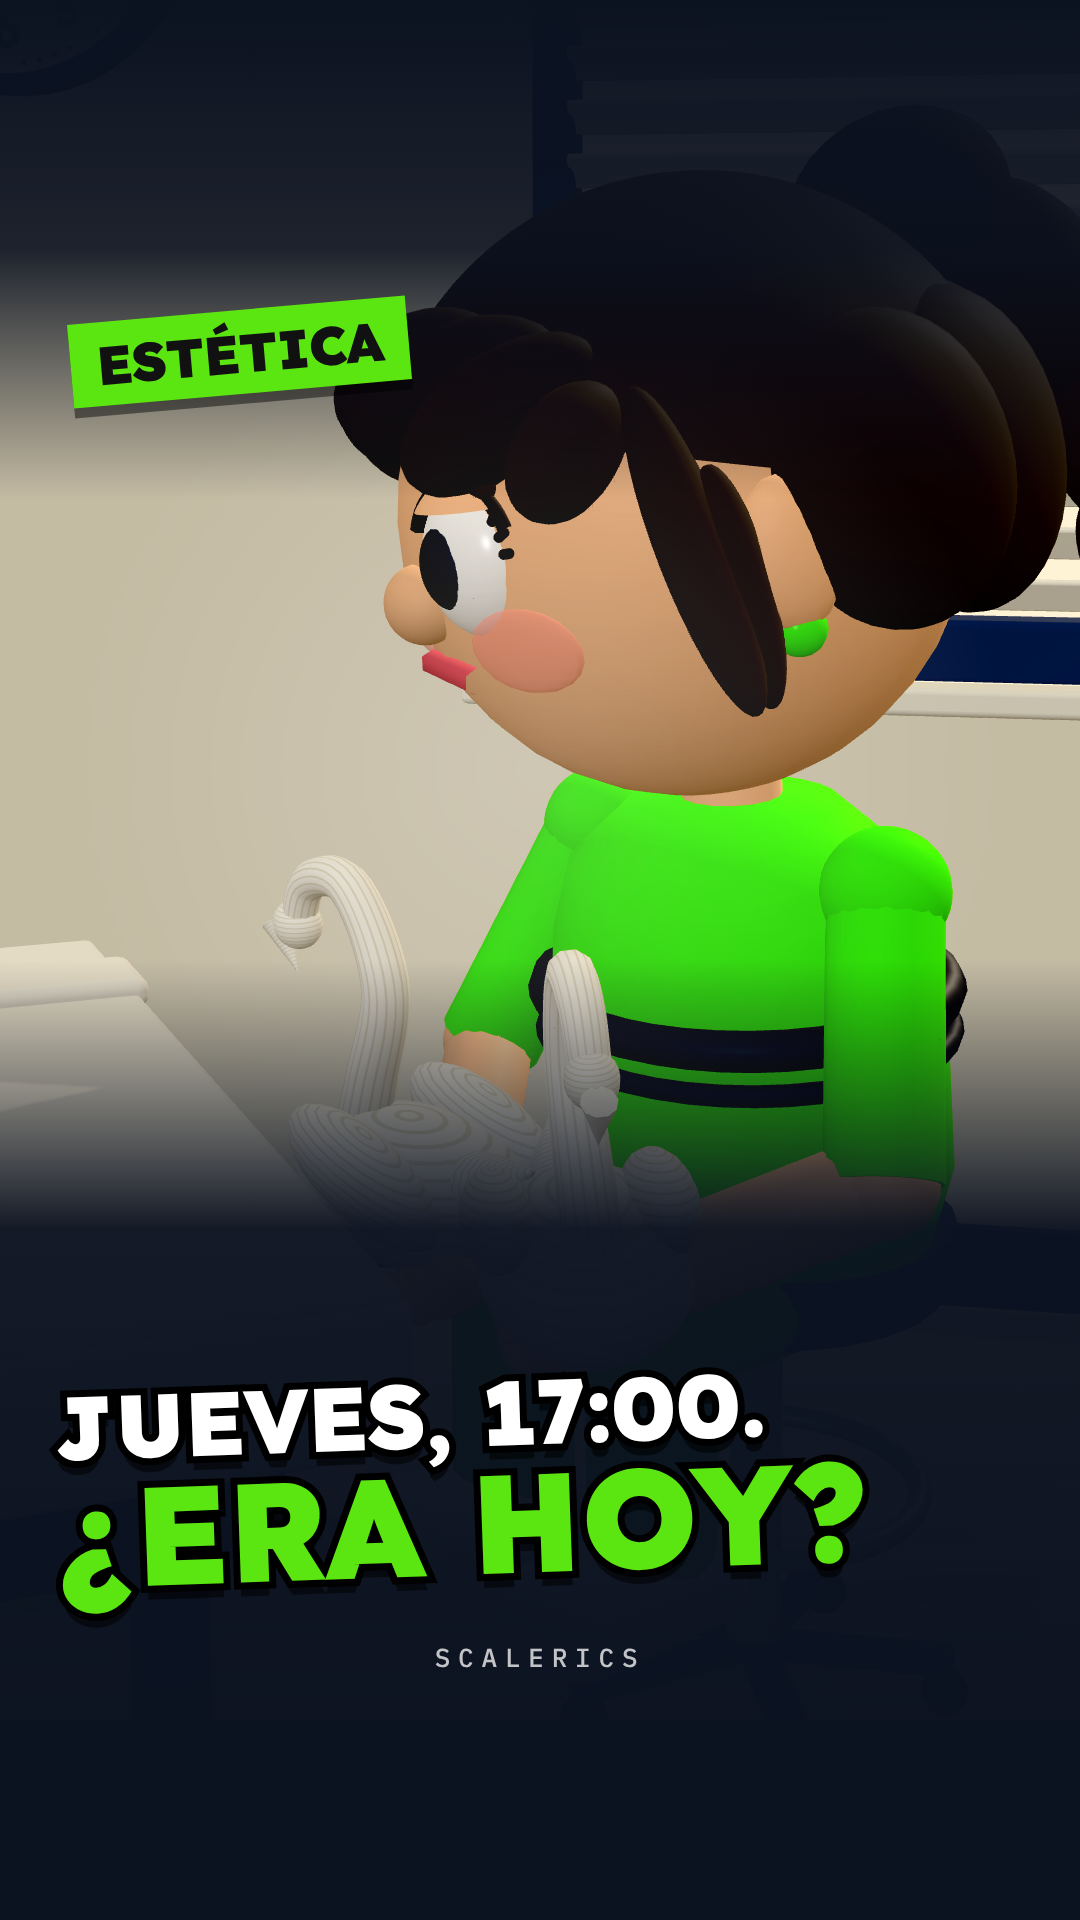
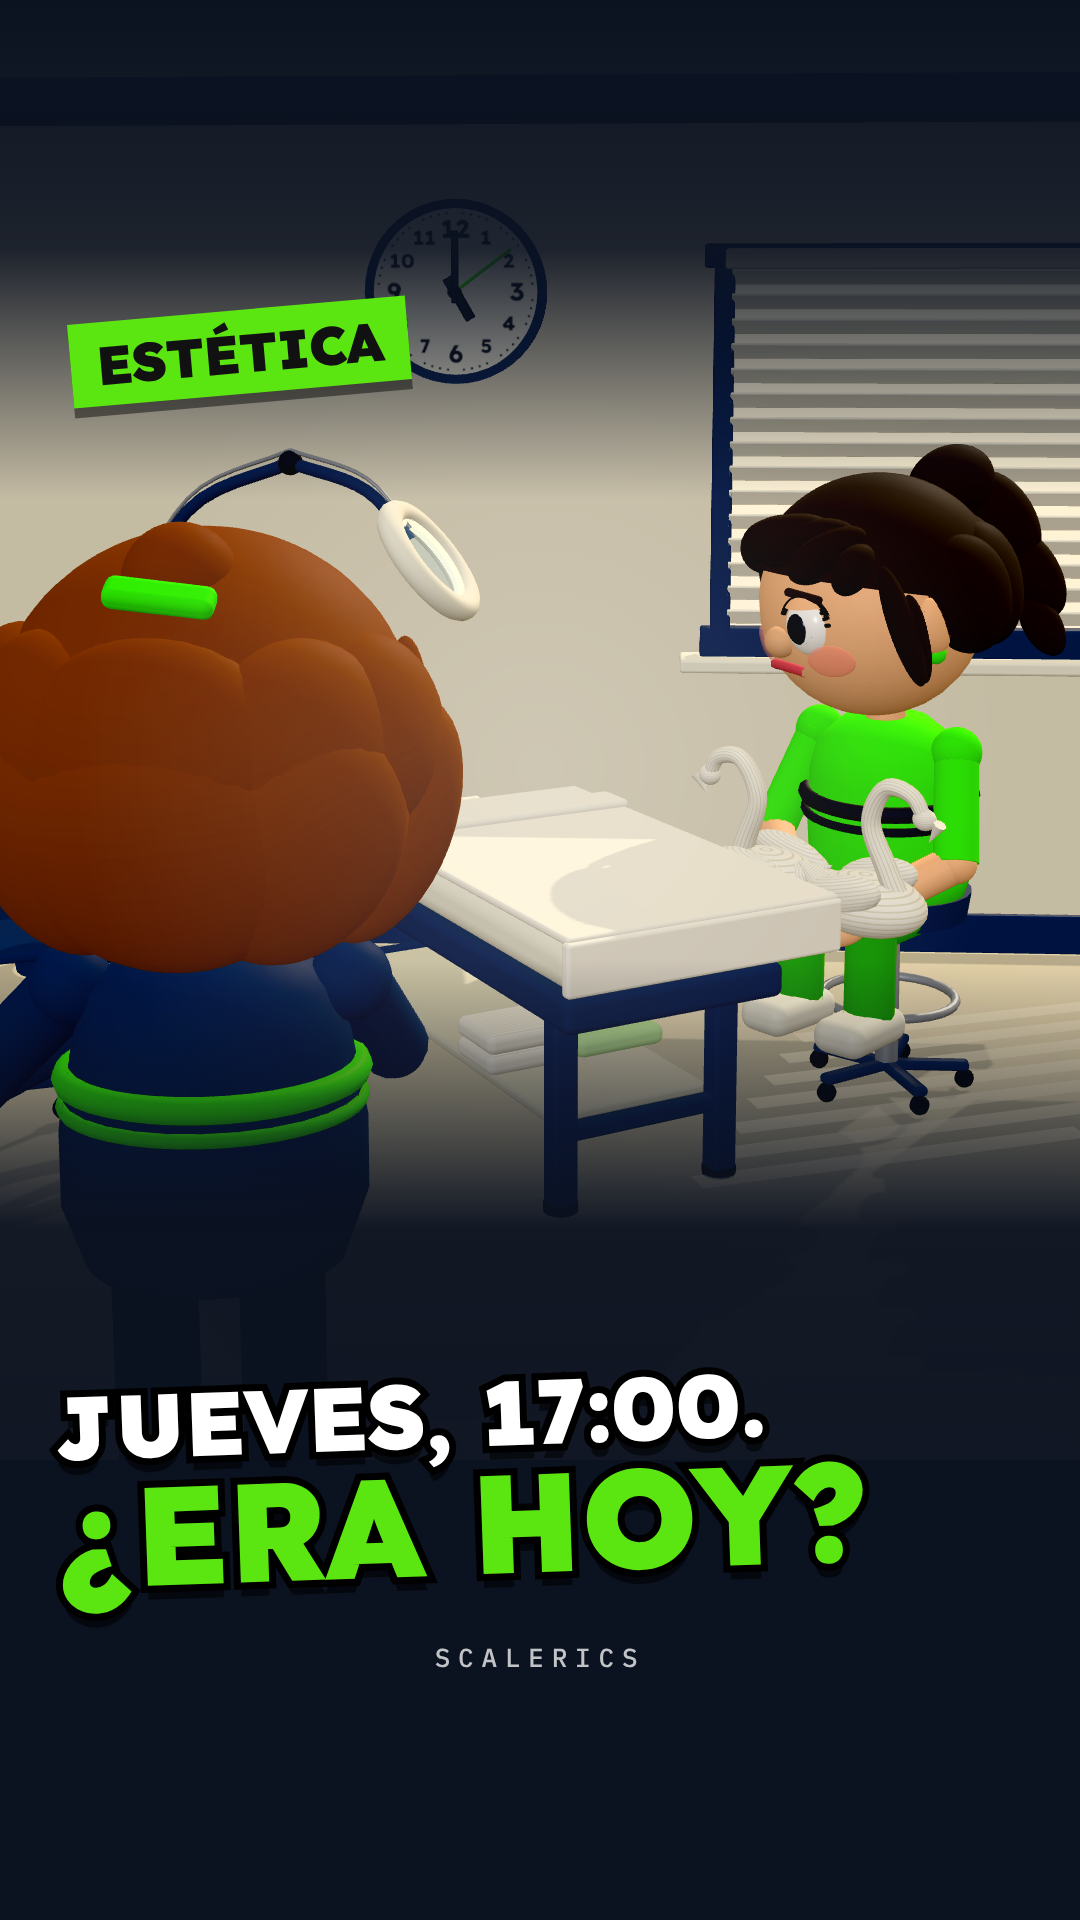
wip: estetica-turnos (ronda 1: render y portada)
Claude-Session: https://claude.ai/code/session_01NDezi1atpacnx85BZNeqRZ

diff --git a/reels/estetica-turnos/NOTAS-constructor.md b/reels/estetica-turnos/NOTAS-constructor.md
@@ -52,3 +52,19 @@ tablet) son pegados a la cámara como en dice-cuarenta.
 - Las transformaciones de las toallas son escala + vaivén de manos, no manipulación detallada.
 - P6: Lorena mira la agenda (ojos casi cerrados, sin hablar).
 - Duración 42,5 s (pedido ~34).
+
+## Ronda 1 (16-11, sobre la revisión independiente del MP4 de 42,6 s)
+**Duración 38,75 s** (parte 1 0-16,87 · cartel 16,87-19,32 · parte 2 19,32-38,75 = 50,1 %). Render 1876 s.
+A1 tablet y celular de Sofi invisibles en la parte 1 · A2 mostrador a 0,9 m, Lorena más adelante, cámara alta (se le ve
+el torso), cisnes sobre el mostrador a su derecha · A3 la tablet arranca "15:00 Libre / 16:00 Mariana / 17:00 Jimena" en
+blanco; Carolina en verde al reservar, Jimena al confirmar · A4 aviso de Graciela arriba sin cola, cámara más baja ·
+A5/A6 rótulos abajo sobre el piso: "3 turnos…" a la camilla, "A Vale se le paga igual" a su regazo, "$ 5.400 que no
+entraron" se queda durante "Lo único puntual…"; P4 1,8 s · M1 "Cubierto en 2 minutos" con ajuste · M2 tríptico rehecho
+(300 px, textos con ajuste, "Reprogramó / Martes / 10:00 ✓" a 54 px, llega a q2 + 0,05) · M3 sin círculos · M4 celular
+con cámara, reborde y mano; tablet con cámara; pie de texto · M5 Q5: tablet ~85 % con "Camilla vacía: 0 h" a 76 px,
+después push a Sofi (celular 1,9x); s1 a q5 + 0,2, atempo 1,15, cola 0,4 · M6 la tablet de Q5 ya verde · M7 el cartel no
+entra en Q5 · M8 cielorraso crema (sin luz) · M9 P4 más alto y rótulos abajo · M10 horas en Lexend, agenda de frente en
+P5/P6 · M11 "¡Llegué!" abajo · M12 pinza verde y mechas en la nuca de Lorena, coleta de Carolina con volumen,
+`flequilloAlto` en Vale · M13 Carolina entra por la puerta · M14 cama +4 dB, SFX +6 dB sin voz (techo -31) · M15 push-ins
+más marcados en P5, Q4, Q4b · M16 chat de Mariana blanco con tildes verdes · M17 portada desde el plano general (8,9 s).
+Bajas: B1 B2 B3 B5 B7 B8 B9 B10 B11 B12. Mezcla: voz ≥ +8,5 LU, -14,2 LUFS, pico -5,2 dBFS.
